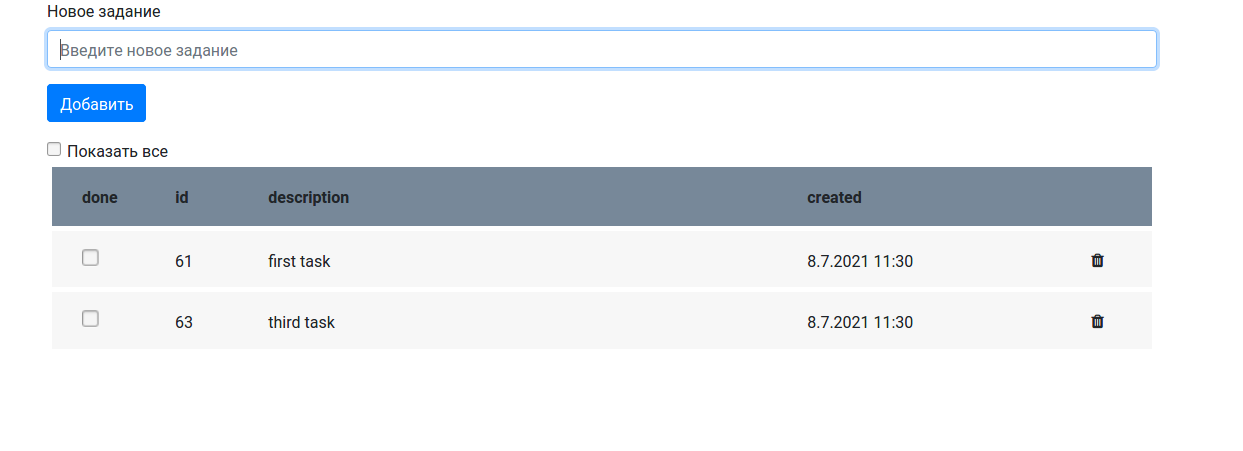
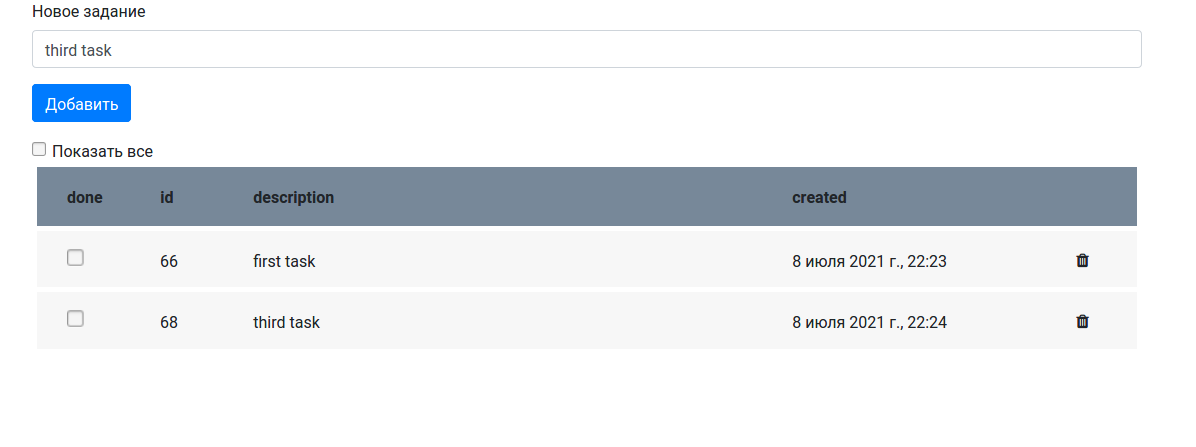
Изменил вывод даты на странице

diff --git a/src/main/webapp/js/script.js b/src/main/webapp/js/script.js
@@ -31,7 +31,7 @@ let addToFront = function (id, taskName, created, done) {
     let doneSpan = $("<span></span>").addClass("col-1").append("<input type='checkbox'>");
     let idSpan = $("<span></span>").addClass("col-1").text(id);
     let descSpan = $("<span></span>").addClass("col-6").text(taskName);
-    let createdSpan = $("<span></span>").addClass("col-3").prop("localDateTime", created).text(formatDate(created));
+    let createdSpan = $("<span></span>").addClass("col-3").text(formatDate(created));
     let deleteSpan = $("<span></span>").append("<i class='fa fa-trash col-1'></i>");
     let item = $("<div></div>")
         .addClass("todo-item")
@@ -46,8 +46,14 @@ let addToFront = function (id, taskName, created, done) {
 
 let formatDate = function (created) {
     let date = new Date(created);
-    return date.getDate() + "." + (date.getMonth() + 1) + "." + date.getFullYear() + " "
-        + date.getHours() + ":" + date.getMinutes();
+    let options = {
+        year: 'numeric',
+        month: 'long',
+        day: 'numeric',
+        hour: 'numeric',
+        minute: 'numeric',
+    };
+    return date.toLocaleString("ru", options);
 };
 
 $(document).ready(function() {

diff --git a/src/main/java/ru/job4j/todo/model/Item.java b/src/main/java/ru/job4j/todo/model/Item.java
@@ -23,13 +23,6 @@ public class Item {
         this.created = LocalDateTime.now();
     }
 
-    public Item(long id, String description, String created, boolean done) {
-        this.id = id;
-        this.description = description;
-        this.created = LocalDateTime.parse(created);
-        this.done = done;
-    }
-
     public long getId() {
         return id;
     }
